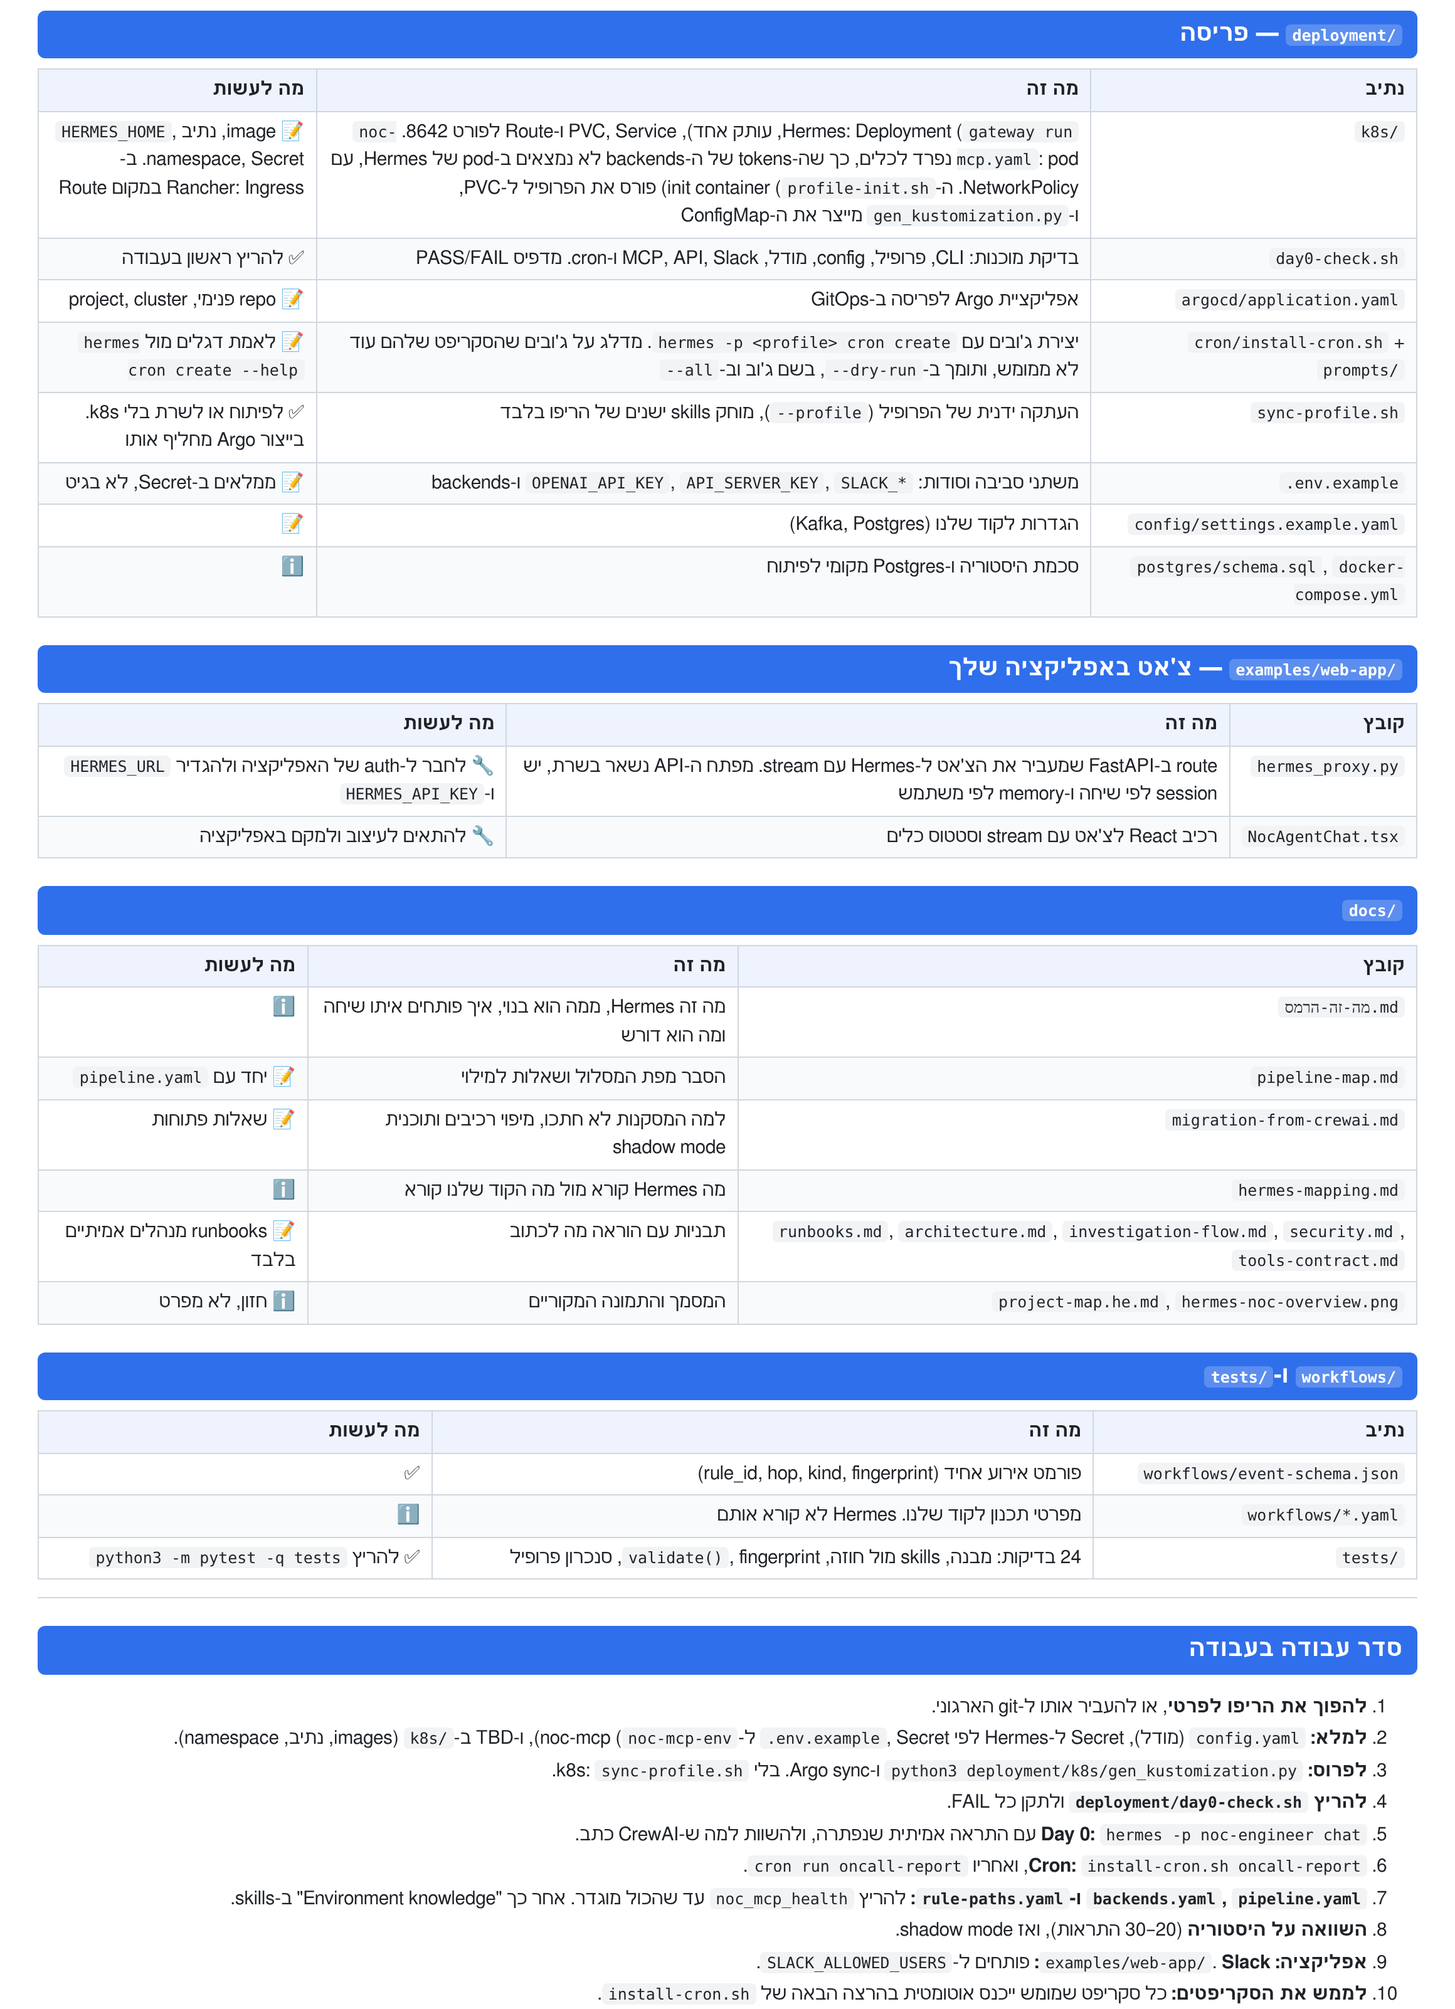
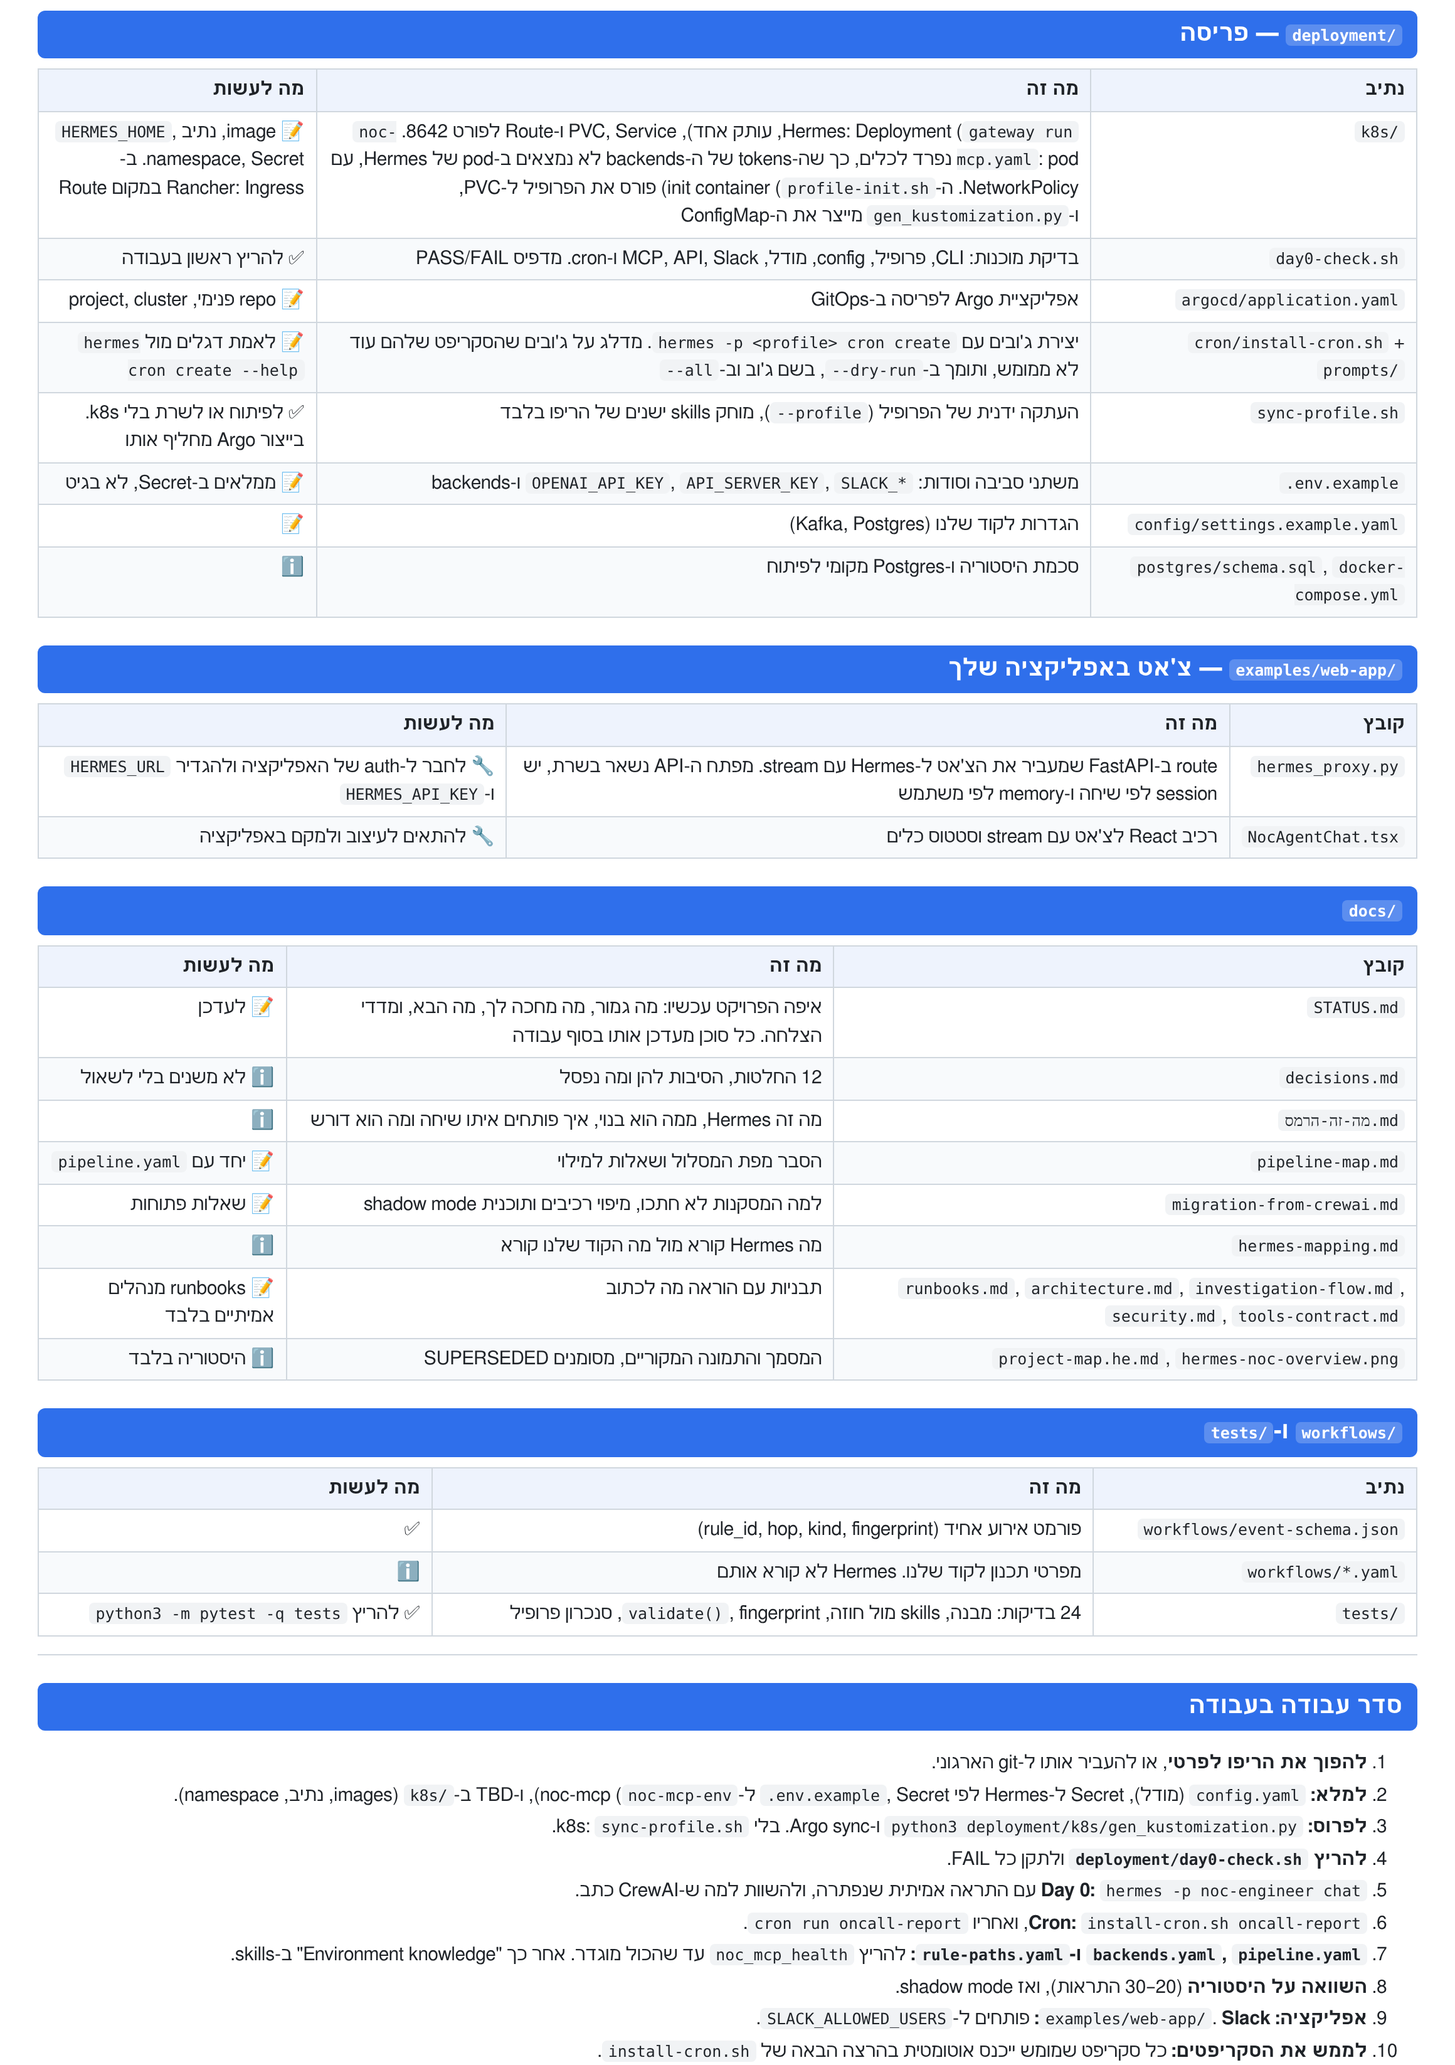
Orientation for agents: north star in CLAUDE.md, docs/STATUS.md, docs/decisions.md; mark original project map superseded

diff --git a/tests/test_architecture_contracts.py b/tests/test_architecture_contracts.py
@@ -156,3 +156,10 @@ def test_profile_init_unflattens_and_prunes(tmp_path):
     assert r.returncode == 0, r.stderr
     names = {p.name for p in (home / "skills").iterdir()}
     assert "old" not in names and "agent-made" in names and set(SKILLS) <= names
+
+
+def test_orientation_docs_present():
+    claude = (ROOT / "CLAUDE.md").read_text()
+    assert "## North star" in claude and "docs/STATUS.md" in claude and "docs/decisions.md" in claude
+    assert (ROOT / "CLAUDE.md").read_text() == (ROOT / "AGENTS.md").read_text()
+    assert "SUPERSEDED" in (ROOT / "docs" / "project-map.he.md").read_text()[:200]

diff --git a/AGENTS.md b/AGENTS.md
@@ -1,13 +1,19 @@
 # CLAUDE.md — instructions for any LLM / coding agent working in this repo
 (AGENTS.md is a copy of this file.)
 
+## North star (read this first)
+**Goal:** a single Hermes agent that tells the NOC team **where** a problem is (which hop of the data path, which rule, which servers/partitions/pods, since when) with evidence, and replaces the CrewAI pipeline (`crew-network`) whose conclusions were collections of tool outputs that never pinpointed the problem.
+**Environment:** servers receiving traffic -> capture apps -> Kafka -> K8s processing (Rancher/OpenShift, Argo) -> internal enrichment -> rule matching (rule & config system) -> Postgres/ECK. Customer issues = rule hermeticity/coupling, config changes, maintenance, loss, load.
+**Success:** on 20–30 resolved alerts, correct hop >= 80%, no wrong CONFIRMED, better than CrewAI; then shadow mode, then Hermes owns Jira. Details: `docs/STATUS.md`.
+
 ## Read first
-1. `docs/מדריך-הפרויקט.md` — Hebrew guide: every folder/file and what is left to do.
-2. `docs/מה-זה-הרמס.md` — what Hermes is, entry points (Slack, API server, CLI) and what it requires.
-3. `docs/pipeline-map.md` + `noc-mcp/config/pipeline.yaml` — the data path; core of every investigation.
-4. `docs/project-map.he.md` — the original project map (Hebrew, original intent).
-5. `docs/hermes-noc-overview.png` — the overview diagram. It is a VISION, not a spec: build the MVP first.
-6. `README.md` — repo map and start order. Each source file has a header docstring saying what to implement.
+1. `docs/STATUS.md` — what is done, what waits for the owner, what is next, success criteria. **Update it when you finish.**
+2. `docs/decisions.md` — decisions and why; do not reverse them without asking.
+3. `docs/מדריך-הפרויקט.md` — Hebrew guide: every folder/file and what is left to do.
+4. `docs/מה-זה-הרמס.md` — what Hermes is, entry points (Slack, API server, CLI) and what it requires.
+5. `docs/pipeline-map.md` + `noc-mcp/config/pipeline.yaml` — the data path; core of every investigation.
+6. `README.md` and `noc-mcp/README.md` — repo map, tools. Each source file has a header docstring saying what to implement.
+Historical only (SUPERSEDED, do not use as spec): `docs/project-map.he.md`, `docs/hermes-noc-overview.png`.
 
 ## Who you work with
 the repository owner. Talk to him in **Hebrew**, bottom line first, concise, no padding. Code, comments, commit messages and SKILL/SOUL files are in **English**. Push back honestly; do not just agree.
@@ -38,3 +44,4 @@ Model: Kimi K3 (OpenAI-compatible). Use lower reasoning_effort for cron/question
 - No secrets in git; keep the repo private; no internal IPs/topology/logs committed.
 - noc-mcp tools are config-driven: never hardcode URLs, metric names or API paths in code; add them to `noc-mcp/config/*.yaml` and return `not_configured` when missing.
 - Run tests: `python3 -m pytest -q tests`. Keep them offline (fake HTTP, see tests/test_noc_mcp_tools.py).
+- When you finish a piece of work: update `docs/STATUS.md` (tick, move, date) and add a row to `docs/decisions.md` if you made a design decision.

diff --git a/CLAUDE.md b/CLAUDE.md
@@ -1,13 +1,19 @@
 # CLAUDE.md — instructions for any LLM / coding agent working in this repo
 (AGENTS.md is a copy of this file.)
 
+## North star (read this first)
+**Goal:** a single Hermes agent that tells the NOC team **where** a problem is (which hop of the data path, which rule, which servers/partitions/pods, since when) with evidence, and replaces the CrewAI pipeline (`crew-network`) whose conclusions were collections of tool outputs that never pinpointed the problem.
+**Environment:** servers receiving traffic -> capture apps -> Kafka -> K8s processing (Rancher/OpenShift, Argo) -> internal enrichment -> rule matching (rule & config system) -> Postgres/ECK. Customer issues = rule hermeticity/coupling, config changes, maintenance, loss, load.
+**Success:** on 20–30 resolved alerts, correct hop >= 80%, no wrong CONFIRMED, better than CrewAI; then shadow mode, then Hermes owns Jira. Details: `docs/STATUS.md`.
+
 ## Read first
-1. `docs/מדריך-הפרויקט.md` — Hebrew guide: every folder/file and what is left to do.
-2. `docs/מה-זה-הרמס.md` — what Hermes is, entry points (Slack, API server, CLI) and what it requires.
-3. `docs/pipeline-map.md` + `noc-mcp/config/pipeline.yaml` — the data path; core of every investigation.
-4. `docs/project-map.he.md` — the original project map (Hebrew, original intent).
-5. `docs/hermes-noc-overview.png` — the overview diagram. It is a VISION, not a spec: build the MVP first.
-6. `README.md` — repo map and start order. Each source file has a header docstring saying what to implement.
+1. `docs/STATUS.md` — what is done, what waits for the owner, what is next, success criteria. **Update it when you finish.**
+2. `docs/decisions.md` — decisions and why; do not reverse them without asking.
+3. `docs/מדריך-הפרויקט.md` — Hebrew guide: every folder/file and what is left to do.
+4. `docs/מה-זה-הרמס.md` — what Hermes is, entry points (Slack, API server, CLI) and what it requires.
+5. `docs/pipeline-map.md` + `noc-mcp/config/pipeline.yaml` — the data path; core of every investigation.
+6. `README.md` and `noc-mcp/README.md` — repo map, tools. Each source file has a header docstring saying what to implement.
+Historical only (SUPERSEDED, do not use as spec): `docs/project-map.he.md`, `docs/hermes-noc-overview.png`.
 
 ## Who you work with
 the repository owner. Talk to him in **Hebrew**, bottom line first, concise, no padding. Code, comments, commit messages and SKILL/SOUL files are in **English**. Push back honestly; do not just agree.
@@ -38,3 +44,4 @@ Model: Kimi K3 (OpenAI-compatible). Use lower reasoning_effort for cron/question
 - No secrets in git; keep the repo private; no internal IPs/topology/logs committed.
 - noc-mcp tools are config-driven: never hardcode URLs, metric names or API paths in code; add them to `noc-mcp/config/*.yaml` and return `not_configured` when missing.
 - Run tests: `python3 -m pytest -q tests`. Keep them offline (fake HTTP, see tests/test_noc_mcp_tools.py).
+- When you finish a piece of work: update `docs/STATUS.md` (tick, move, date) and add a row to `docs/decisions.md` if you made a design decision.

diff --git a/docs/STATUS.md b/docs/STATUS.md
@@ -1,0 +1,41 @@
+# STATUS: where the project is now
+
+> Every agent/developer: read this after CLAUDE.md, and UPDATE it at the end of your work (tick boxes, move items, add the date).
+> Last update: 2026-11-14
+
+## Done (in this repo)
+- [x] Hermes profile: SOUL.md, 18 skills (6 route, 3 domain, 9 supporting), `config.yaml` (Kimi K3 custom provider, API server :8642, MCP url, tools.include)
+- [x] Investigation contract: `Investigation.validate()` (hop, evidence, ruled_out, next_check), data-based fingerprint
+- [x] noc-mcp: 18 config-driven tools (pipeline, rules, changes, servers, kafka, monitoring, history, Jira + gated comment, health); stdio + HTTP; offline tests
+- [x] Cron: `install-cron.sh` (profile-aware, skips stub scripts), prompts for oncall-report and proactive-review
+- [x] Deployment: k8s Hermes (gateway, PVC, Service/Route, profile init container) + noc-mcp pod + NetworkPolicy + Argo Application; `day0-check.sh`
+- [x] Web app chat example (`examples/web-app/`), Hebrew docs (guide, what-is-Hermes)
+- [x] 49 tests passing
+
+## Waiting for the owner at work (blocks real investigations)
+- [ ] Make the repo private / move to the org git
+- [ ] `noc-mcp/config/backends.yaml`: URLs, secrets via env, server/Kafka PromQL templates, rules API paths, maintenance source
+- [ ] `noc-mcp/config/pipeline.yaml`: real hops, `in_query`/`out_query` per hop, hermeticity/coupling KPI queries, then `verified: true`
+- [ ] `rule-paths.yaml` (if the rules system has no rule -> path API)
+- [ ] Hermes: image, HERMES_HOME path, Kimi endpoint + model id, Secrets, Slack app tokens
+- [ ] Verify Hermes CLI flags on the installed version (`cron create`, `gateway run`, `mcp test`)
+- [ ] "Environment knowledge" sections in the skills
+
+## Next (in order)
+1. Day 0: `day0-check.sh` READY; 3 resolved alerts via `hermes chat`, compare with CrewAI
+2. `evals/`: 20–30 resolved alerts with known root cause + runner that scores hop/rule correctness, time, tool calls  <- buildable now
+3. Grafana -> Hermes -> `validate()` -> Slack bridge (`event-ingestion/grafana_webhook.py`) for shadow mode  <- buildable now
+4. Hermes self-monitoring (latency, tool errors, tokens per investigation)
+5. Shadow mode 2–4 weeks, then switch Jira ownership from CrewAI
+6. Routes: customer-ticket, config-change, web app; then anomaly engine + proactive-review; then the other cron scripts
+
+## Not implemented yet (stubs on purpose)
+- noc-mcp network / enrichment / data-quality / platform tools (contract names only)
+- `anomaly-engine/`, `event-ingestion/`, `reporting/`, cron scripts in `hermes-profile/scripts/`
+- History in org Postgres (JSONL for now)
+
+## Success criteria (shadow mode exit)
+- Correct hop for >= 80% of the evaluation set; correct rule/instance for >= 70%
+- No CONFIRMED conclusion that is wrong; every conclusion cites evidence and passes `validate()`
+- Median investigation < 5 min; tool errors handled as missing_data, never as "healthy"
+- Better than CrewAI on the same alerts at locating the problem (the reason this project exists)

diff --git a/docs/decisions.md b/docs/decisions.md
@@ -1,0 +1,16 @@
+# Decisions (do not reverse without asking the owner)
+
+| # | Decision | Why | Rejected |
+|---|---|---|---|
+| 1 | ONE Hermes agent (profile `noc-engineer`) | One investigation loop that can cross domains; CrewAI's per-domain agents + tool-less conclusion agent produced summaries, not locations | Multi-agent crews, CrewAI as a permanent layer |
+| 2 | Investigation = change-correlation -> pipeline-walk -> test candidates -> rule out | Every customer problem surfaces as hermeticity/coupling of a rule; the cause is the first hop where data diverges, often right after a change | Free-form "check tools and summarize" |
+| 3 | Output contract with `suspected_location.hop`, `ruled_out`, `next_check`, enforced by `validate()` in code | Forces the model to localize; stops vague conclusions from reaching Jira | Free text; numeric confidence (models invent precise-looking numbers) |
+| 4 | Fingerprint from alert data (rule + scope), never model text | Model wording changed per run -> duplicate tickets / merged unrelated incidents in CrewAI | Hash of root_cause text |
+| 5 | Skills = methodology, MCP = access, code = enforcement | SOUL.md is a request to the model, not a permission system | Permissions in prompts |
+| 6 | Read-only; the only write is a validated, deduplicated, audited Jira comment, off by default | the owner does not own the APIs/DBs; an LLM must not act on production | Restart/scale/firewall/rule-change tools |
+| 7 | noc-mcp in its own pod, config-driven, no hardcoded URLs/metrics | Backend credentials stay out of the Hermes pod; environment facts belong to the owner, not to the code | Tools inside Hermes; guessed metric names |
+| 8 | Deterministic work in Python (anomaly scan, polling, baselines); LLM only for correlation/explanation | Cost, reliability, no LLM scanning 100K series | LLM-driven scanning |
+| 9 | Reuse org infra: Kafka, org Postgres, Argo CD on OpenShift/Rancher | Already operated by the team | RabbitMQ, new databases, docker-compose in production |
+| 10 | Kimi K3 via OpenAI-compatible custom provider | Strong tool calling / long tasks; DeepSeek R1-class models cannot call tools | R1 / small distills |
+| 11 | Cron via `hermes cron create` (jobs.json), never YAML | That is how Hermes works; YAML specs were not read by anything | Cron YAML files |
+| 12 | Migration by shadow mode, not big bang | Prove Hermes locates better than CrewAI on the same alerts before switching Jira ownership | Turning CrewAI off first |

diff --git a/docs/מדריך-הפרויקט.md b/docs/מדריך-הפרויקט.md
@@ -84,12 +84,14 @@
 ## `docs/`
 | קובץ | מה זה | מה לעשות |
 |---|---|---|
+| `STATUS.md` | איפה הפרויקט עכשיו: מה גמור, מה מחכה לך, מה הבא, ומדדי הצלחה. כל סוכן מעדכן אותו בסוף עבודה | 📝 לעדכן |
+| `decisions.md` | 12 החלטות, הסיבות להן ומה נפסל | ℹ לא משנים בלי לשאול |
 | `מה-זה-הרמס.md` | מה זה Hermes, ממה הוא בנוי, איך פותחים איתו שיחה ומה הוא דורש | ℹ |
 | `pipeline-map.md` | הסבר מפת המסלול ושאלות למילוי | 📝 יחד עם `pipeline.yaml` |
 | `migration-from-crewai.md` | למה המסקנות לא חתכו, מיפוי רכיבים ותוכנית shadow mode | 📝 שאלות פתוחות |
 | `hermes-mapping.md` | מה Hermes קורא מול מה הקוד שלנו קורא | ℹ |
 | `runbooks.md`, `architecture.md`, `investigation-flow.md`, `security.md`, `tools-contract.md` | תבניות עם הוראה מה לכתוב | 📝 runbooks מנהלים אמיתיים בלבד |
-| `project-map.he.md`, `hermes-noc-overview.png` | המסמך והתמונה המקוריים | ℹ חזון, לא מפרט |
+| `project-map.he.md`, `hermes-noc-overview.png` | המסמך והתמונה המקוריים, מסומנים SUPERSEDED | ℹ היסטוריה בלבד |
 
 ## `workflows/` ו-`tests/`
 | נתיב | מה זה | מה לעשות |

diff --git a/docs/project-map.he.md b/docs/project-map.he.md
@@ -1,3 +1,6 @@
+> **SUPERSEDED (historical).** המסמך הזה הוא התכנון הראשוני. כמה מההחלטות בו בוטלו: 7 skills גנריים, RabbitMQ ו-PostgreSQL מההתחלה, Docker במקום Argo, ו-confidence מספרי.
+> **המצב הנוכחי:** `docs/STATUS.md`. **ההחלטות:** `docs/decisions.md`. **המדריך:** `docs/מדריך-הפרויקט.md`.
+
 מפת הפרויקט: Hermes NOC Engineer
 
 המטרה היא לבנות Agent אחד בשם noc-engineer, שרץ On-Prem בתוך סביבת Docker, מכיר את מערכות התשתית שלך, מנטר מגמות ואנומליות, חוקר תקלות, עובד מול Jira ומפיק דוח NOC יומי.

diff --git a/README.md b/README.md
@@ -72,4 +72,4 @@ docker compose -f deployment/docker-compose.yml --profile optional up -d   # loc
 ```
 
 ## Status
-Scaffold with explicit contracts, not production-ready. MCP tool names/schemas, Jira workflow, Slack, Hermes version, Prometheus limits and secrets management must come from the environment owner. Keep this repository **private**; never commit internal addresses, topology, logs or credentials.
+See `docs/STATUS.md` (done / waiting for environment data / next / success criteria) and `docs/decisions.md`. Keep this repository **private**; never commit internal addresses, topology, logs or credentials.
